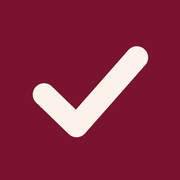
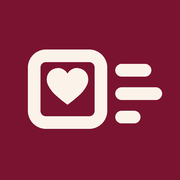
auto: remote session changes 2026-09-11 11:18:35

Changed region(s): [[0.1389, 0.25, 0.9167, 0.7778], [0.6389, 0.6111, 0.8056, 0.6944]]

diff --git a/tools/make_favicon.py b/tools/make_favicon.py
@@ -1,9 +1,15 @@
 #!/usr/bin/env python3
 """Generate the site favicon set.
 
-The mark is a checkmark on the site's one accent colour, which is the site's
-name ("Check the Worksheet") and nothing more. Single-accent discipline, per
-the design system: --accent #7A1330 on --surface #FBF3EA.
+The mark is a worksheet checkbox with a heart in it and three form rows beside
+it: the thing being checked, and what it is about. Single-accent discipline,
+per the design system: --accent #7A1330 on --surface #FBF3EA.
+
+**Two tiers, and this is the point of the file.** At 16 pixels the box outline,
+the heart and the rows merge into a smear -- measured, not assumed, on
+2026-09-11. So the detailed mark is used at 32 and above, and a simplified one
+(bigger box, heart only, no rows) is used at 16. Both are drawn from the
+constants below, so they cannot drift apart.
 
 Run from anywhere:
 
@@ -11,15 +17,19 @@ Run from anywhere:
 
 Writes, relative to the repo root:
 
-    favicon.ico              16/32/48, what a browser requests by default
+    favicon.ico              16 (simple) + 32/48 (detailed), what a browser
+                             requests by default
     assets/favicon.svg       scalable, preferred by modern browsers
     assets/favicon-32.png    explicit 32 for browsers that skip the SVG
-    assets/apple-touch-icon.png   180, iOS home screen (opaque, no rounding —
+    assets/apple-touch-icon.png   180, iOS home screen (opaque, no rounding --
                                   iOS applies its own mask)
 
 The PNGs are drawn at 8x and downsampled, because PIL has no antialiased
-polygon fill. The SVG is hand-written to the same geometry, so the two marks
-are the same drawing at different resolutions rather than a conversion.
+polygon fill. The SVG is written from the same constants, so the two marks are
+one drawing at different resolutions rather than a conversion.
+
+The previous checkmark-only generator is kept beside this one as
+`make_favicon.pre-logo-2026-09-11.py`.
 """
 
 from pathlib import Path
@@ -29,47 +39,147 @@ from PIL import Image, ImageDraw
 ACCENT = "#7A1330"  # --accent
 PAPER = "#FBF3EA"  # --surface
 
-# Geometry, in fractions of the icon box. Shared by the PNG and the SVG so the
-# two cannot drift.
-CORNER_R = 0.18
-CHECK = [(0.245, 0.525), (0.425, 0.700), (0.760, 0.320)]
-CHECK_W = 0.125
+# Geometry in a 0-100 box, shared by every renderer below.
+CORNER_R = 18.0
+
+# --- detailed mark, used at 32 and above -------------------------------------
+BOX = (19.0, 31.0, 37.0, 37.0)  # x, y, w, h
+BOX_R = 6.5
+STROKE = 7.0
+HEART = (37.5, 48.0, 23.0)  # cx, cy, width
+ROWS = [(64.0, 35.5, 20.0), (64.0, 48.5, 26.0), (64.0, 61.5, 14.0)]  # x, y, w
+ROW_H = 7.0
+
+# --- simplified mark, used at 16 ---------------------------------------------
+# At 16 pixels a box AND a heart is one shape too many: the box outline eats
+# four of the sixteen rows and the heart inside it turns to porridge. Measured
+# 2026-09-11. So the small mark is the heart alone, filled, at the size the box
+# would have been -- one shape, full contrast, unmistakable at a tab's size.
+HEART_S = (50.0, 50.0, 58.0)
+
+# A heart drawn in a 6..94 x 10..88 box, scaled and centred on demand. Cubic
+# segments as (control1, control2, end); the start point is the one before it.
+_HEART_START = (50.0, 88.0)
+_HEART_CURVES = [
+    ((20, 66), (6, 50), (6, 34)),
+    ((6, 20), (17, 10), (30, 10)),
+    ((39, 10), (46, 15), (50, 22)),
+    ((54, 15), (61, 10), (70, 10)),
+    ((83, 10), (94, 20), (94, 34)),
+    ((94, 50), (80, 66), (50, 88)),
+]
+_HEART_W = 88.0  # x extent of the raw path
+_HEART_CX, _HEART_CY = 50.0, 49.0
 
 ROOT = Path(__file__).resolve().parent.parent
 SUPERSAMPLE = 8
+FLATTEN = 24  # segments per cubic; 24 is smooth past 512px
 
 
-def _draw(size: int, rounded: bool) -> Image.Image:
+def _heart_points(cx: float, cy: float, w: float) -> list[tuple[float, float]]:
+    """The heart as a flat polygon, so PIL can fill it."""
+    s = w / _HEART_W
+
+    def m(p):
+        return (cx + (p[0] - _HEART_CX) * s, cy + (p[1] - _HEART_CY) * s)
+
+    pts = [m(_HEART_START)]
+    cur = _HEART_START
+    for c1, c2, end in _HEART_CURVES:
+        for i in range(1, FLATTEN + 1):
+            t = i / FLATTEN
+            u = 1 - t
+            x = (
+                u**3 * cur[0]
+                + 3 * u**2 * t * c1[0]
+                + 3 * u * t**2 * c2[0]
+                + t**3 * end[0]
+            )
+            y = (
+                u**3 * cur[1]
+                + 3 * u**2 * t * c1[1]
+                + 3 * u * t**2 * c2[1]
+                + t**3 * end[1]
+            )
+            pts.append(m((x, y)))
+        cur = end
+    return pts
+
+
+def _heart_path(cx: float, cy: float, w: float) -> str:
+    """The same heart as an SVG path, from the same constants."""
+    s = w / _HEART_W
+
+    def m(p):
+        return f"{cx + (p[0] - _HEART_CX) * s:.4g} {cy + (p[1] - _HEART_CY) * s:.4g}"
+
+    out = [f"M {m(_HEART_START)}"]
+    for c1, c2, end in _HEART_CURVES:
+        out.append(f"C {m(c1)} {m(c2)} {m(end)}")
+    out.append("Z")
+    return " ".join(out)
+
+
+def _draw(size: int, rounded: bool, simple: bool) -> Image.Image:
     s = size * SUPERSAMPLE
+    k = s / 100.0  # one unit of the 0-100 box, in supersampled pixels
     img = Image.new("RGBA", (s, s), (0, 0, 0, 0))
     d = ImageDraw.Draw(img)
 
     if rounded:
-        d.rounded_rectangle([0, 0, s - 1, s - 1], radius=int(CORNER_R * s), fill=ACCENT)
+        d.rounded_rectangle([0, 0, s - 1, s - 1], radius=int(CORNER_R * k), fill=ACCENT)
     else:
         d.rectangle([0, 0, s - 1, s - 1], fill=ACCENT)
 
-    pts = [(x * s, y * s) for x, y in CHECK]
-    d.line(pts, fill=PAPER, width=int(CHECK_W * s), joint="curve")
-    # `joint="curve"` rounds the elbow but leaves the two ends square; caps the
-    # stroke by hand so the mark reads as one drawn stroke at 16px.
-    r = CHECK_W * s / 2
-    for x, y in (pts[0], pts[-1]):
-        d.ellipse([x - r, y - r, x + r, y + r], fill=PAPER)
+    if simple:
+        d.polygon([(px * k, py * k) for px, py in _heart_points(*HEART_S)], fill=PAPER)
+        return img.resize((size, size), Image.LANCZOS)
+
+    box, box_r, stroke, heart = BOX, BOX_R, STROKE, HEART
+
+    # PIL strokes a rectangle INWARD from its bounding box; SVG straddles the
+    # path, half in and half out. Expanding by half the stroke makes the two
+    # agree, so the box interior is the same width in both and the heart is not
+    # squeezed by a full stroke on each side.
+    x, y, w, h = box
+    half = stroke / 2.0
+    d.rounded_rectangle(
+        [(x - half) * k, (y - half) * k, (x + w + half) * k, (y + h + half) * k],
+        radius=(box_r + half) * k,
+        outline=PAPER,
+        width=max(1, round(stroke * k)),
+    )
+
+    d.polygon(
+        [(px * k, py * k) for px, py in _heart_points(*heart)],
+        fill=PAPER,
+    )
+
+    for rx, ry, rw in ROWS:
+        d.rounded_rectangle(
+            [rx * k, ry * k, (rx + rw) * k, (ry + ROW_H) * k],
+            radius=ROW_H * k / 2,
+            fill=PAPER,
+        )
 
     return img.resize((size, size), Image.LANCZOS)
 
 
 def _svg() -> str:
-    d = "M {:.4g} {:.4g} L {:.4g} {:.4g} L {:.4g} {:.4g}".format(
-        *[c for pt in CHECK for c in pt]
+    x, y, w, h = BOX
+    rows = "\n".join(
+        f'  <rect x="{rx:.4g}" y="{ry:.4g}" width="{rw:.4g}" height="{ROW_H:.4g}" '
+        f'rx="{ROW_H / 2:.4g}" fill="{PAPER}"/>'
+        for rx, ry, rw in ROWS
     )
     return (
-        '<svg xmlns="http://www.w3.org/2000/svg" viewBox="0 0 1 1" '
+        '<svg xmlns="http://www.w3.org/2000/svg" viewBox="0 0 100 100" '
         'width="64" height="64" role="img" aria-label="Check the Worksheet">\n'
-        f'  <rect width="1" height="1" rx="{CORNER_R}" fill="{ACCENT}"/>\n'
-        f'  <path d="{d}" fill="none" stroke="{PAPER}" stroke-width="{CHECK_W}" '
-        'stroke-linecap="round" stroke-linejoin="round"/>\n'
+        f'  <rect width="100" height="100" rx="{CORNER_R:.4g}" fill="{ACCENT}"/>\n'
+        f'  <rect x="{x:.4g}" y="{y:.4g}" width="{w:.4g}" height="{h:.4g}" '
+        f'rx="{BOX_R:.4g}" fill="none" stroke="{PAPER}" stroke-width="{STROKE:.4g}"/>\n'
+        f'  <path d="{_heart_path(*HEART)}" fill="{PAPER}"/>\n'
+        f"{rows}\n"
         "</svg>\n"
     )
 
@@ -77,16 +187,37 @@ def _svg() -> str:
 def main() -> None:
     written = []
 
+    # The .ico carries the simple mark at 16 and the detailed one at 32/48.
+    # Pillow matches `append_images` to `sizes` by the image's own size, so each
+    # entry must be drawn at its final size -- passing one image and letting
+    # Pillow resize it would put the detailed mark in the 16px slot, where it is
+    # unreadable. Asserted below, because a silently dropped size looks fine.
     ico = ROOT / "favicon.ico"
-    _draw(48, rounded=True).save(ico, sizes=[(16, 16), (32, 32), (48, 48)])
+    ico_imgs = {
+        16: _draw(16, rounded=True, simple=True),
+        32: _draw(32, rounded=True, simple=False),
+        48: _draw(48, rounded=True, simple=False),
+    }
+    ico_imgs[48].save(
+        ico,
+        sizes=[(16, 16), (32, 32), (48, 48)],
+        append_images=[ico_imgs[16], ico_imgs[32]],
+    )
+    with Image.open(ico) as check:
+        got = sorted(check.ico.sizes())
+    assert got == [(16, 16), (32, 32), (48, 48)], f"favicon.ico holds {got}"
     written.append(ico)
 
     png32 = ROOT / "assets" / "favicon-32.png"
-    _draw(32, rounded=True).save(png32)
+    _draw(32, rounded=True, simple=False).save(png32)
     written.append(png32)
 
+    png16 = ROOT / "assets" / "favicon-16.png"
+    _draw(16, rounded=True, simple=True).save(png16)
+    written.append(png16)
+
     touch = ROOT / "assets" / "apple-touch-icon.png"
-    _draw(180, rounded=False).convert("RGB").save(touch)
+    _draw(180, rounded=False, simple=False).convert("RGB").save(touch)
     written.append(touch)
 
     svg = ROOT / "assets" / "favicon.svg"

diff --git a/tools/make_favicon.pre-logo-2026-09-11.py b/tools/make_favicon.pre-logo-2026-09-11.py
@@ -1,0 +1,101 @@
+#!/usr/bin/env python3
+"""Generate the site favicon set.
+
+The mark is a checkmark on the site's one accent colour, which is the site's
+name ("Check the Worksheet") and nothing more. Single-accent discipline, per
+the design system: --accent #7A1330 on --surface #FBF3EA.
+
+Run from anywhere:
+
+    .venv/bin/python tools/make_favicon.py
+
+Writes, relative to the repo root:
+
+    favicon.ico              16/32/48, what a browser requests by default
+    assets/favicon.svg       scalable, preferred by modern browsers
+    assets/favicon-32.png    explicit 32 for browsers that skip the SVG
+    assets/apple-touch-icon.png   180, iOS home screen (opaque, no rounding —
+                                  iOS applies its own mask)
+
+The PNGs are drawn at 8x and downsampled, because PIL has no antialiased
+polygon fill. The SVG is hand-written to the same geometry, so the two marks
+are the same drawing at different resolutions rather than a conversion.
+"""
+
+from pathlib import Path
+
+from PIL import Image, ImageDraw
+
+ACCENT = "#7A1330"  # --accent
+PAPER = "#FBF3EA"  # --surface
+
+# Geometry, in fractions of the icon box. Shared by the PNG and the SVG so the
+# two cannot drift.
+CORNER_R = 0.18
+CHECK = [(0.245, 0.525), (0.425, 0.700), (0.760, 0.320)]
+CHECK_W = 0.125
+
+ROOT = Path(__file__).resolve().parent.parent
+SUPERSAMPLE = 8
+
+
+def _draw(size: int, rounded: bool) -> Image.Image:
+    s = size * SUPERSAMPLE
+    img = Image.new("RGBA", (s, s), (0, 0, 0, 0))
+    d = ImageDraw.Draw(img)
+
+    if rounded:
+        d.rounded_rectangle([0, 0, s - 1, s - 1], radius=int(CORNER_R * s), fill=ACCENT)
+    else:
+        d.rectangle([0, 0, s - 1, s - 1], fill=ACCENT)
+
+    pts = [(x * s, y * s) for x, y in CHECK]
+    d.line(pts, fill=PAPER, width=int(CHECK_W * s), joint="curve")
+    # `joint="curve"` rounds the elbow but leaves the two ends square; caps the
+    # stroke by hand so the mark reads as one drawn stroke at 16px.
+    r = CHECK_W * s / 2
+    for x, y in (pts[0], pts[-1]):
+        d.ellipse([x - r, y - r, x + r, y + r], fill=PAPER)
+
+    return img.resize((size, size), Image.LANCZOS)
+
+
+def _svg() -> str:
+    d = "M {:.4g} {:.4g} L {:.4g} {:.4g} L {:.4g} {:.4g}".format(
+        *[c for pt in CHECK for c in pt]
+    )
+    return (
+        '<svg xmlns="http://www.w3.org/2000/svg" viewBox="0 0 1 1" '
+        'width="64" height="64" role="img" aria-label="Check the Worksheet">\n'
+        f'  <rect width="1" height="1" rx="{CORNER_R}" fill="{ACCENT}"/>\n'
+        f'  <path d="{d}" fill="none" stroke="{PAPER}" stroke-width="{CHECK_W}" '
+        'stroke-linecap="round" stroke-linejoin="round"/>\n'
+        "</svg>\n"
+    )
+
+
+def main() -> None:
+    written = []
+
+    ico = ROOT / "favicon.ico"
+    _draw(48, rounded=True).save(ico, sizes=[(16, 16), (32, 32), (48, 48)])
+    written.append(ico)
+
+    png32 = ROOT / "assets" / "favicon-32.png"
+    _draw(32, rounded=True).save(png32)
+    written.append(png32)
+
+    touch = ROOT / "assets" / "apple-touch-icon.png"
+    _draw(180, rounded=False).convert("RGB").save(touch)
+    written.append(touch)
+
+    svg = ROOT / "assets" / "favicon.svg"
+    svg.write_text(_svg())
+    written.append(svg)
+
+    for p in written:
+        print(f"{p.relative_to(ROOT)}  {p.stat().st_size} bytes")
+
+
+if __name__ == "__main__":
+    main()
